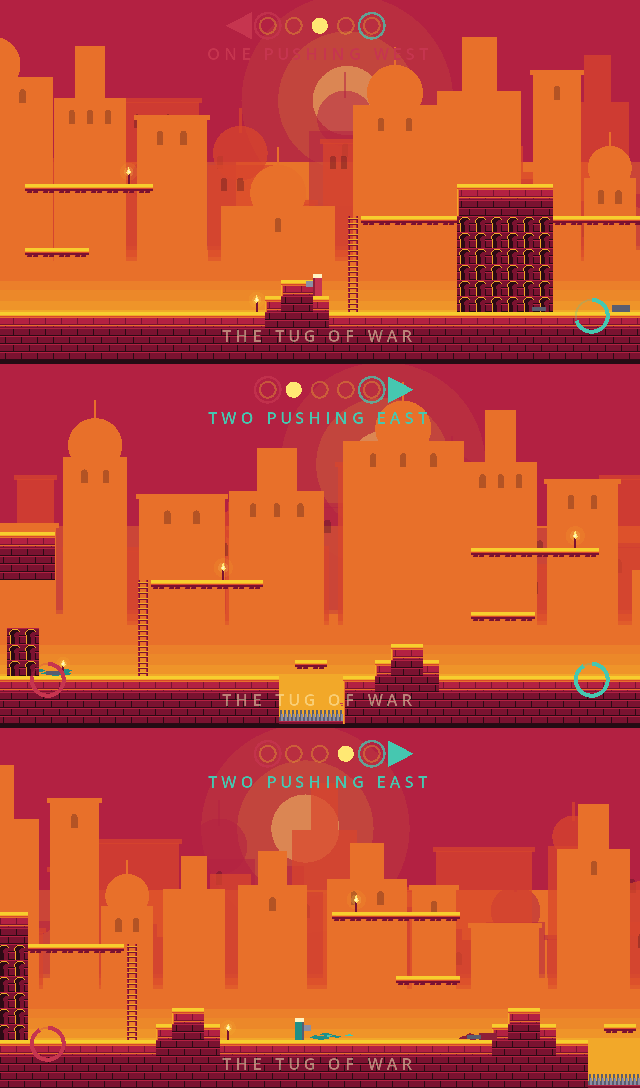
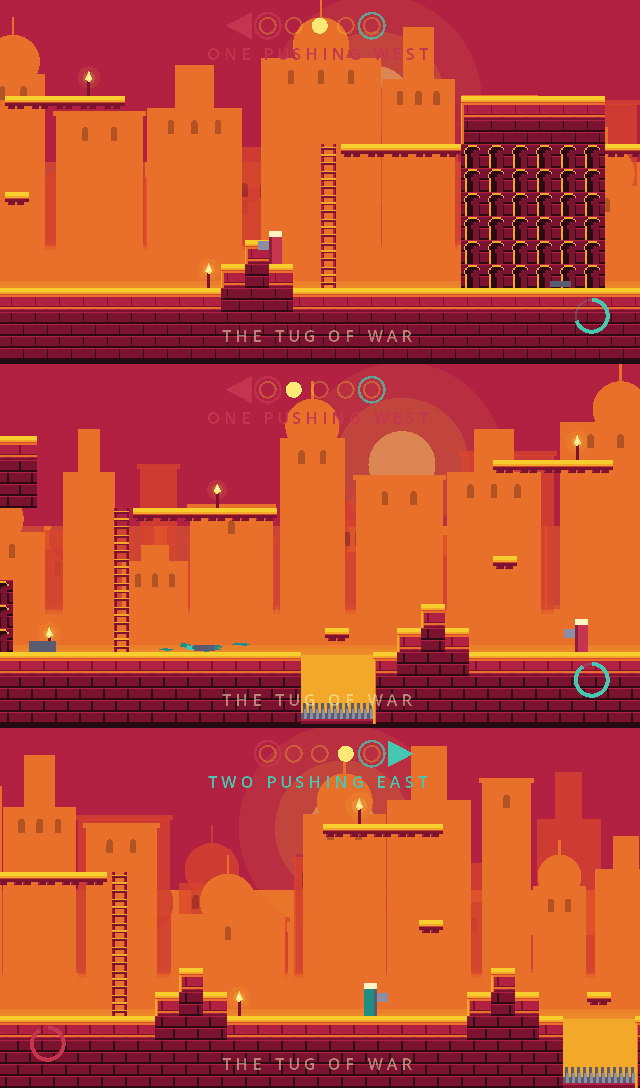
Frame the duel on the fighter: 8-9% of the screen, 480 px zones
The duel camera fitted one 640 px zone to the screen's width. On a phone
that was a 0.5 zoom and a fighter about 6% of the screen's height, and
which of three heights a blade was at -- the whole combat system -- was
hard to read. A 320 px zone put a fighter at about 12% and left little
room. The middle was asked for: 8-9%.

The camera now scales by height. MatchCamera.FIGHTER_SHARE is 0.085,
rounded to a whole number of screen pixels per texel: 8.1% at 1080 px
tall, 9.2-9.4% at 1170-1440. A fighter's size on the glass is then the
same whatever the aspect, and texels are all one size.

At that scale a phone shows 506 px (iPhone) to 600 px (20:9 Android) of
world, so a 640 px zone no longer fits and two fighters at opposite ends
of the window would not both be on screen -- which the mode depends on.
ZoneStrip.SCREEN_WIDTH is now 480 px, thirty tiles, which fits across
every phone measured, down to 16:9 at 1080p exactly. On narrower screens
the camera follows the pair. The respawn lead follows: 1.5 x 480 = 720.

The five zones were cut from 40 columns to 30 without redrawing them.
Only columns identical to their neighbour were removed, and each removal
was the one that kept the most open ground -- the floor respawns land
on -- so every gate, ladder, ledge, torch and mark survived. Open ground
per zone is 14-17 of 30 (it was 18-24 of 40); the first, naive pass that
always cut the longest run left 11-14 and failed the suite's "most of
[…]

diff --git a/docs/duel-match.md b/docs/duel-match.md
@@ -153,15 +153,20 @@ still start the round-based duel in `scripts/duel/duel.gd`. Both implement
 
 Open before the match replaces the round duel:
 
-1. **Zone width — a design decision, not made yet.** `ZoneStrip.SCREEN_WIDTH`
-   is a 640 px "design screen"; the view is 320–440 units wide. At 640 a
-   fighter is about 5% of the screen's height on a phone, at 320 about 12%.
-   No pixels are lost either way: the stretch mode is `canvas_items`, which
-   draws at native resolution. The camera now rounds its scale **down** to a
-   whole number of screen pixels per texel and snaps its position to the
-   pixel grid, so texels are all the same size on any aspect and the view shows
-   slightly more than one zone, never less. `--framing=320` in the scene's user
-   arguments frames the view 320 px wide, for comparing.
+1. ~~Zone width.~~ **Decided: a fighter stands 8–9% of the screen's height**,
+   and the strip follows from that. The camera scales by height
+   (`MatchCamera.FIGHTER_SHARE`, 0.085) at a whole number of screen pixels per
+   texel — 8.1% at 1080 px tall, 9.2–9.4% at 1170–1440 — and snaps to the pixel
+   grid, so texels are all one size on any aspect. At that scale phones show
+   506–600 px of world, so a zone is 480 px (30 tiles,
+   `ZoneStrip.SCREEN_WIDTH`) and always fits across: both fighters are on
+   screen at every moment, as the mode needs. On narrower screens — a 16:9
+   720p device, a 4:3 tablet — the camera follows the pair. The five zones were
+   cut from 40 columns to 30 by removing only columns identical to their
+   neighbour, chosen to keep the most open ground, so every gate, ladder,
+   ledge and mark survived and the share of respawnable floor held at about
+   half. The respawn lead is 1.5 × 480 = 720 px. `--framing=<px>` still frames
+   a fixed width, for comparisons.
 2. **The fighter is drawn as its hitboxes.** `fighter_art.gd` argues for it:
    the rectangles are what decides a duel, so the art that shows them teaches
    the game. It reads, but next to the prince's rig in `player_art.gd` it is a
